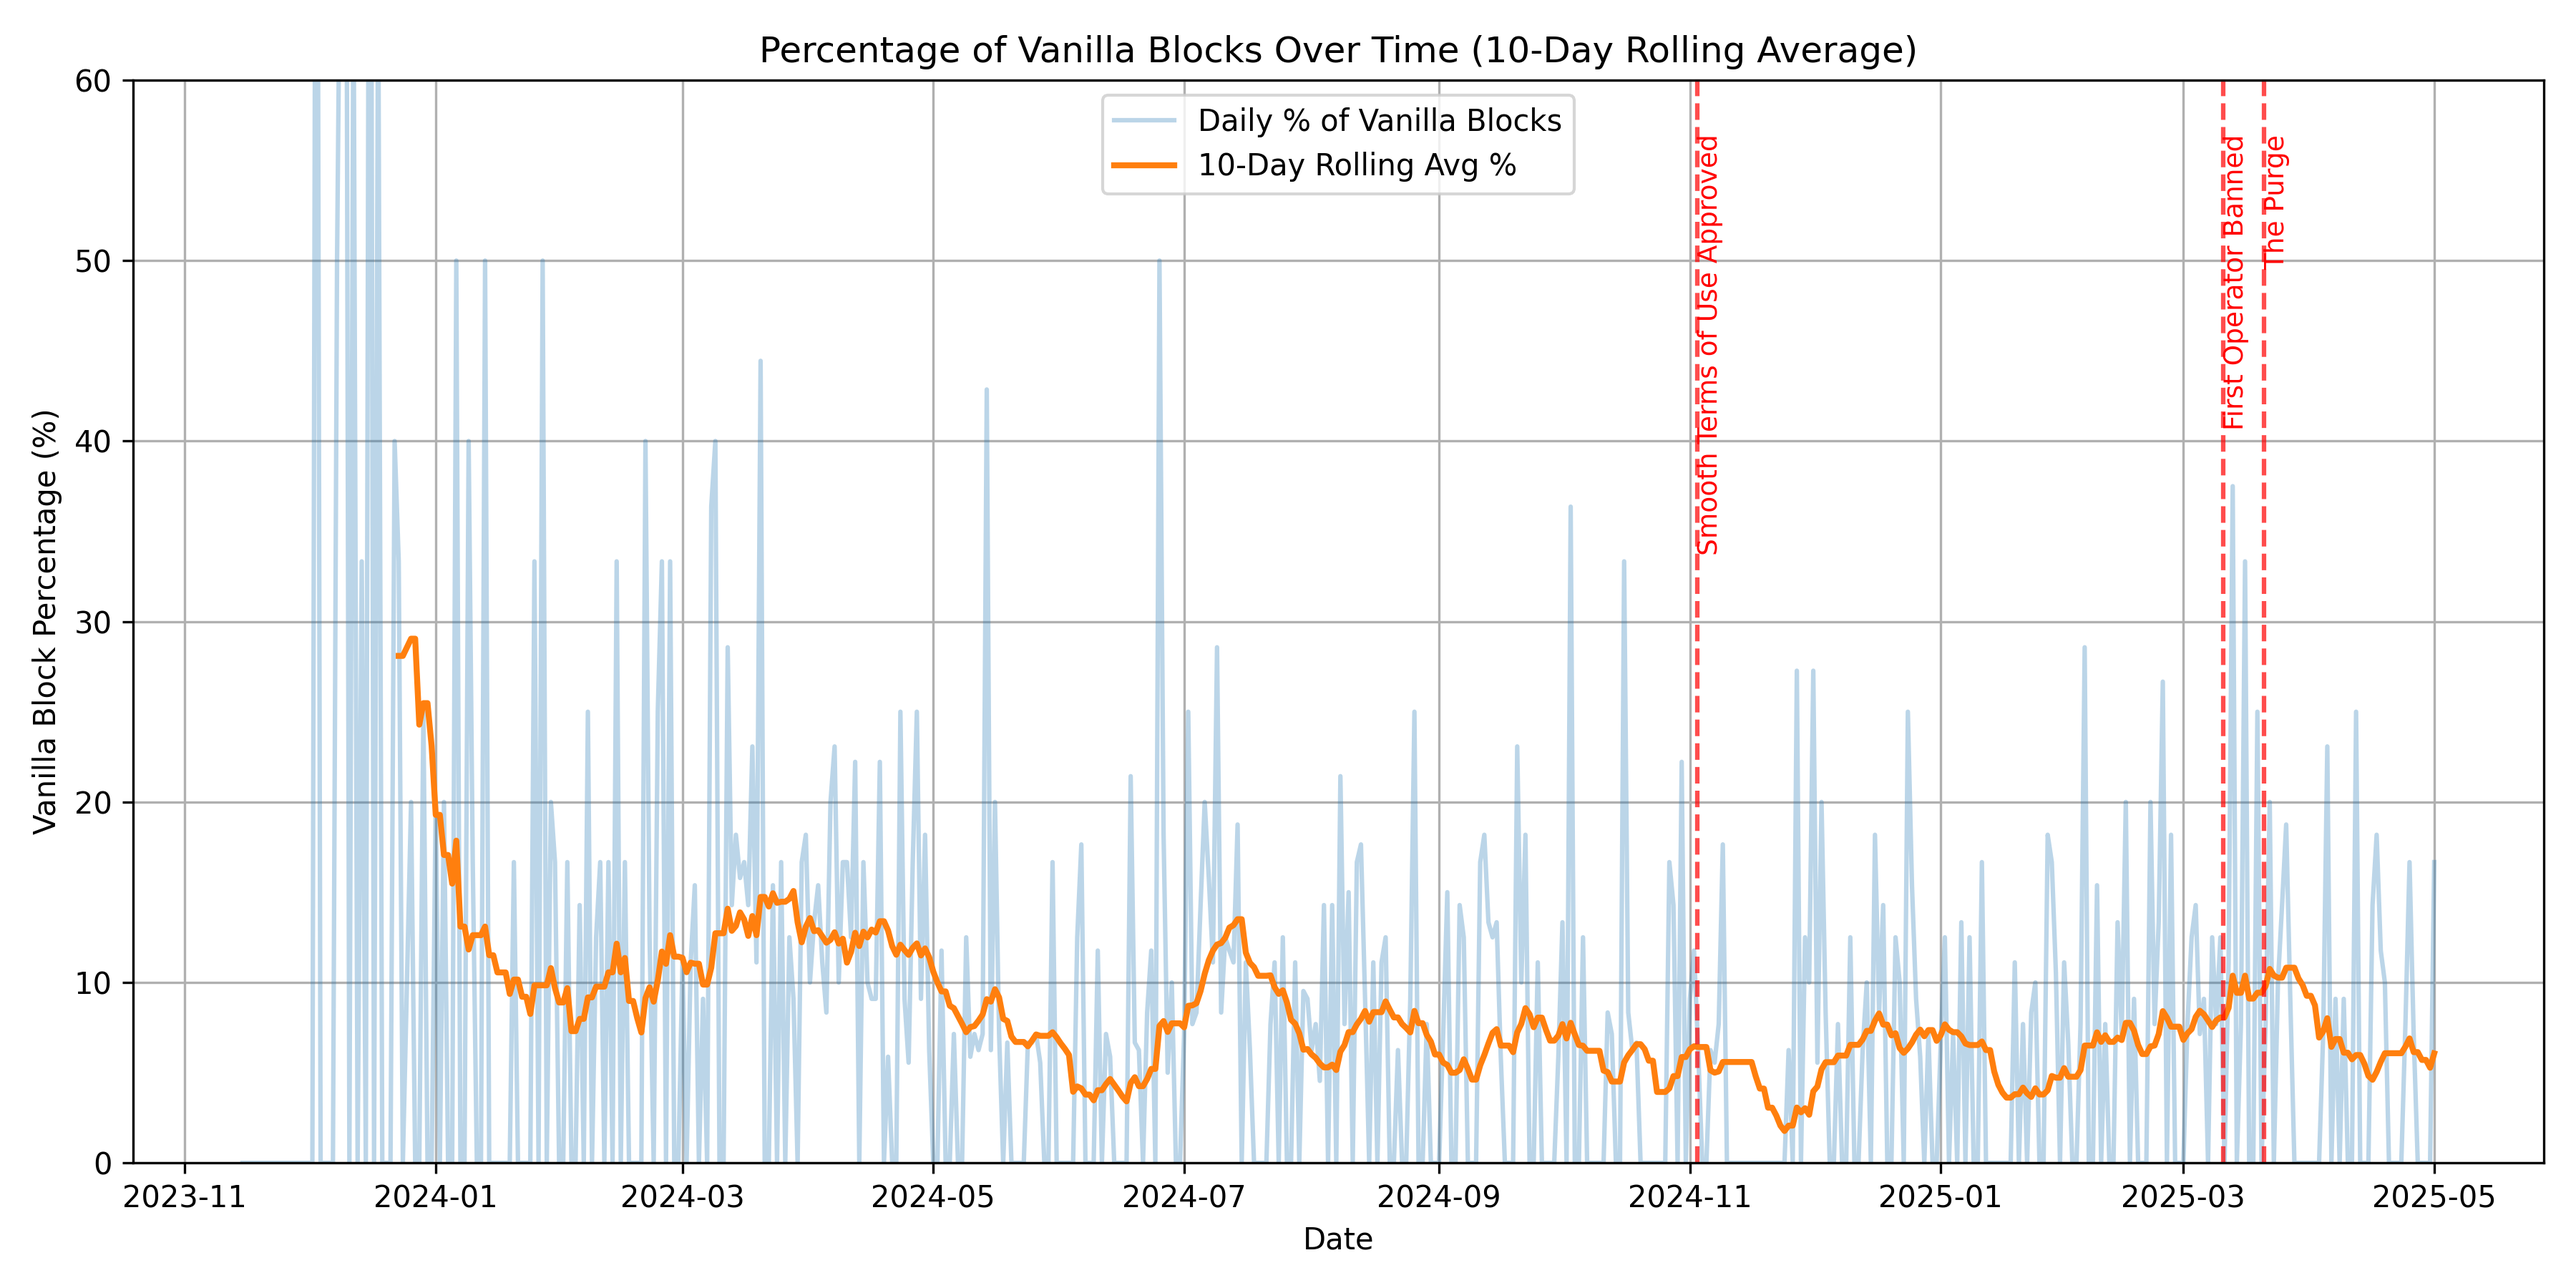
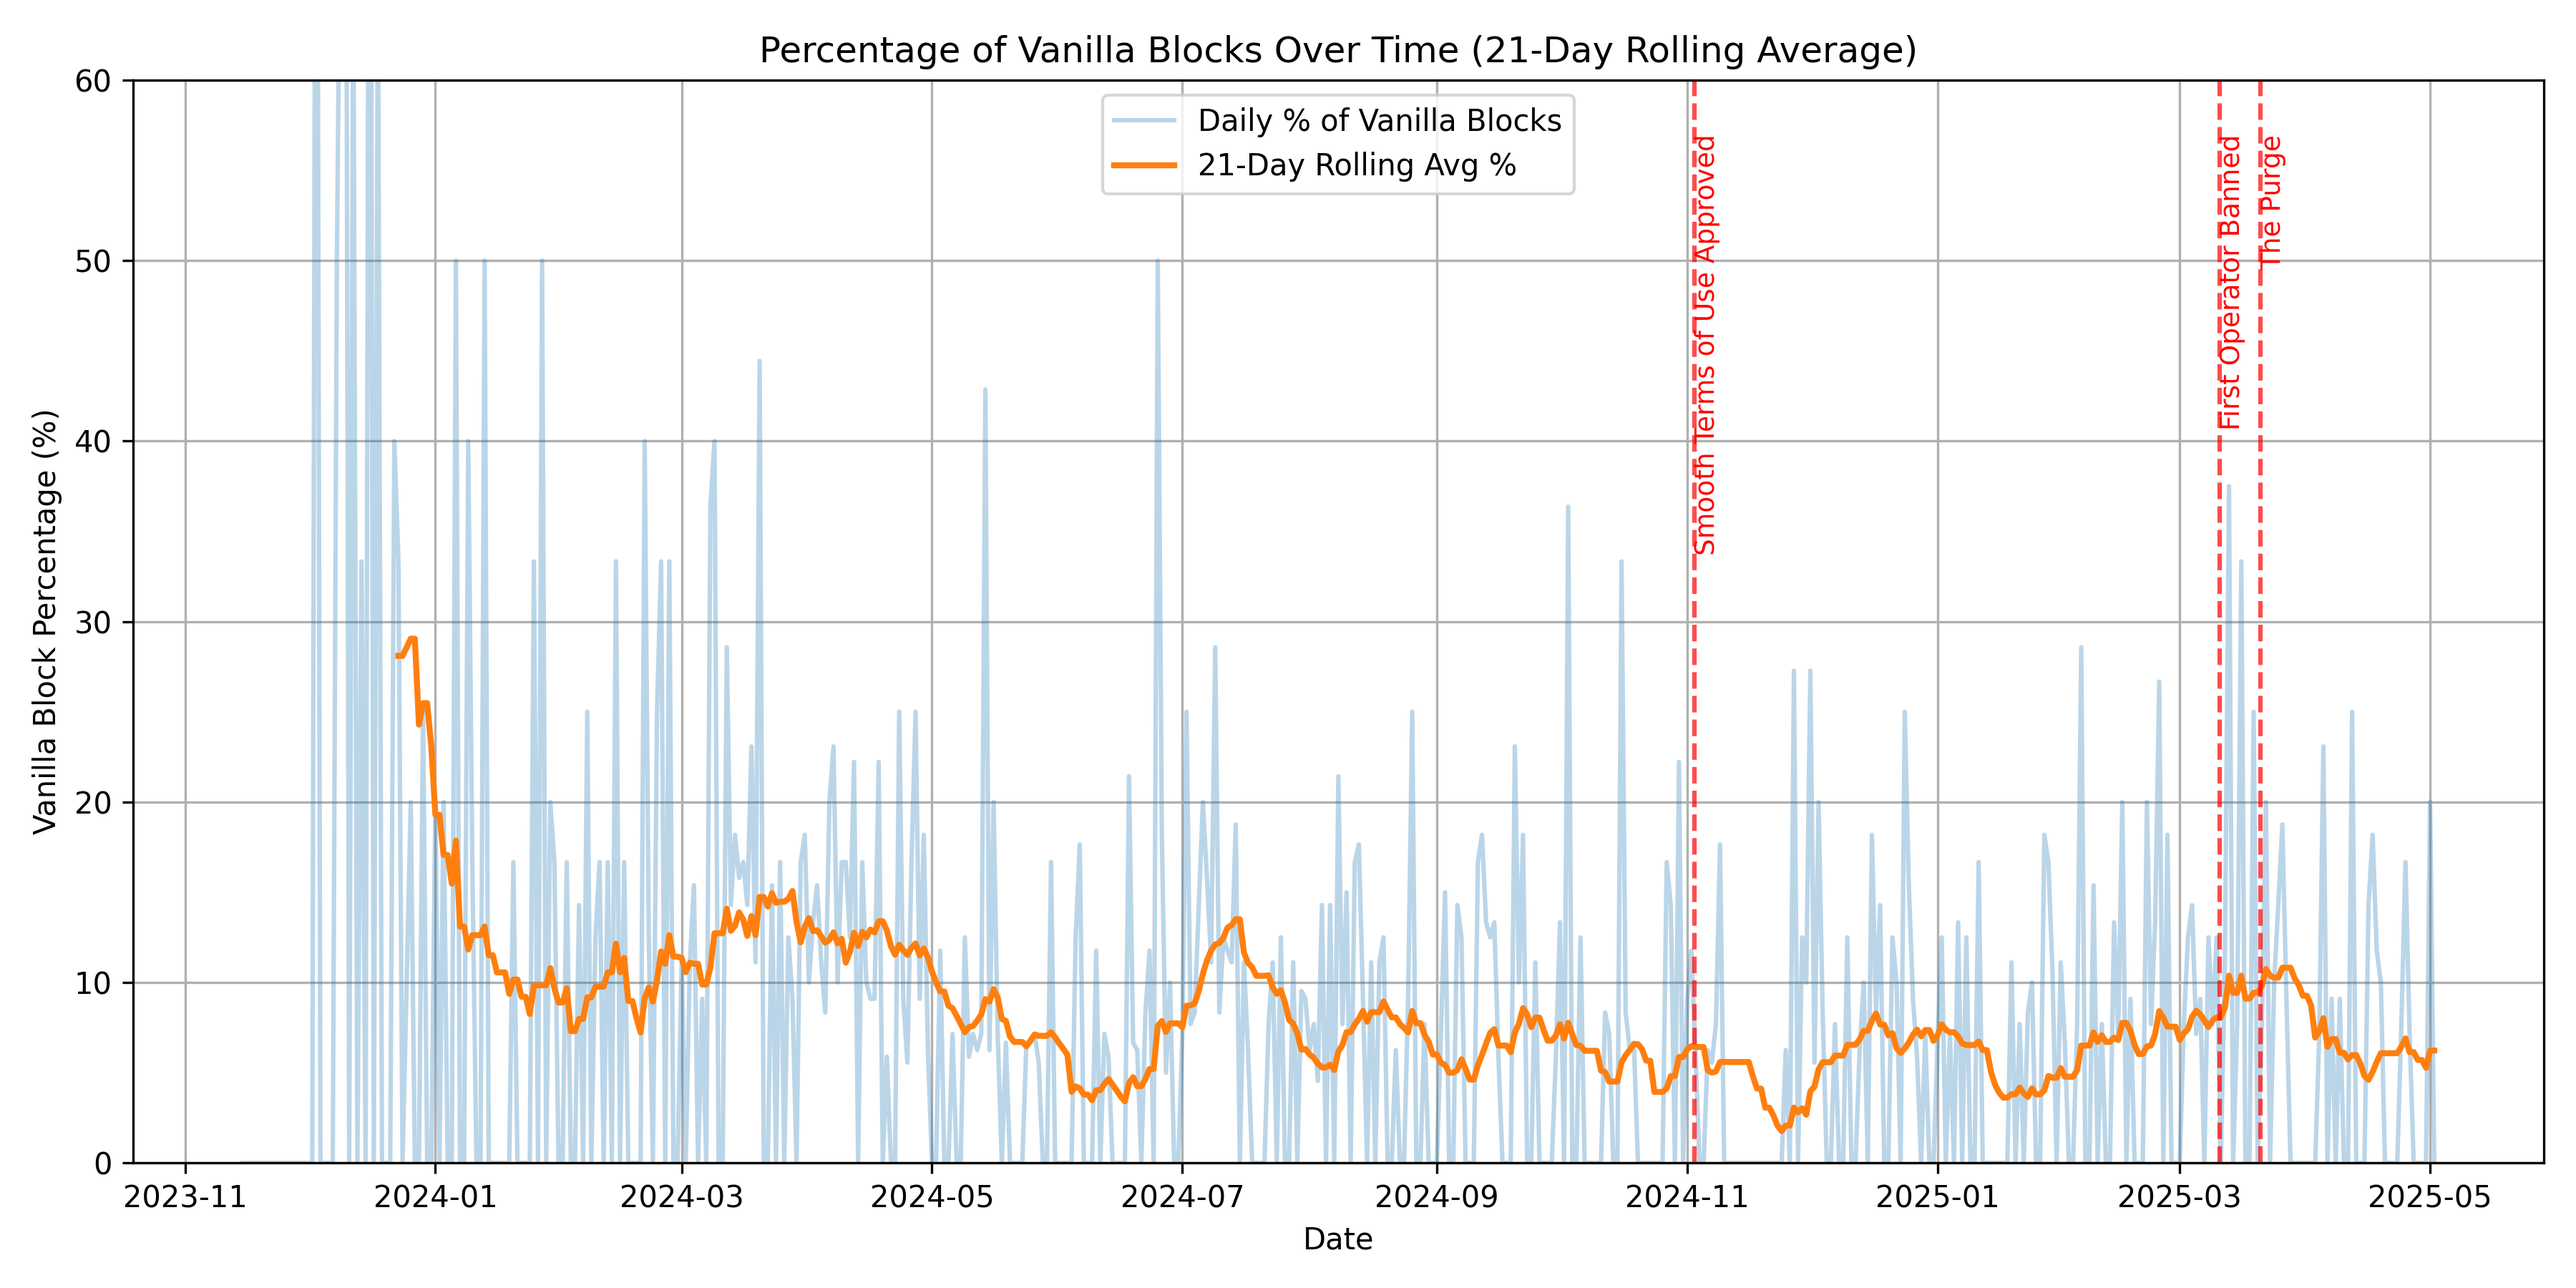
typo

diff --git a/vanillacharts/vanillacharts.py b/vanillacharts/vanillacharts.py
@@ -49,14 +49,14 @@ events = {
 # Plot
 plt.figure(figsize=(12, 6))
 plt.plot(daily_df['vanila_pct'], label='Daily % of Vanilla Blocks', alpha=0.3)
-plt.plot(daily_df['vanila_pct_rolling'], label='10-Day Rolling Avg %', linewidth=2)
+plt.plot(daily_df['vanila_pct_rolling'], label='21-Day Rolling Avg %', linewidth=2)
 
 # Add vertical lines and labels
 for label, date in events.items():
     plt.axvline(x=date, color='red', linestyle='--', alpha=0.7)
     plt.text(date, 57, label, rotation=90, verticalalignment='top', color='red', fontsize=9)
 
-plt.title('Percentage of Vanilla Blocks Over Time (10-Day Rolling Average)')
+plt.title('Percentage of Vanilla Blocks Over Time (21-Day Rolling Average)')
 plt.xlabel('Date')
 plt.ylabel('Vanilla Block Percentage (%)')
 plt.ylim(0, 60)  # Limit y-axis to 60%
